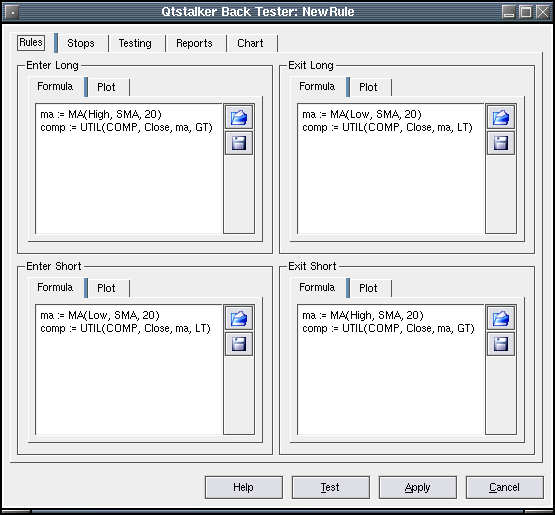
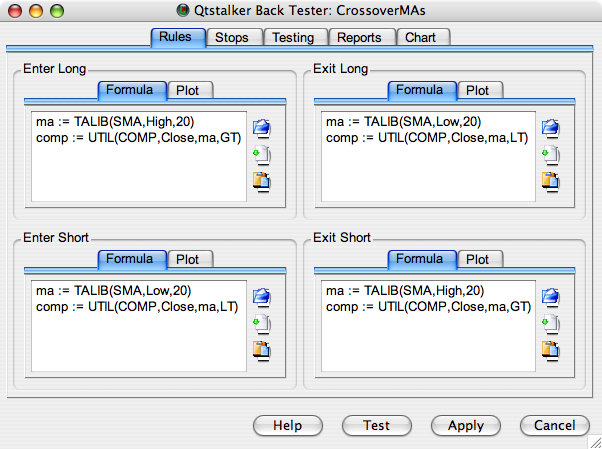
Use example as TALIB(SMA,...) rather than the old MA(...).

diff --git a/docs/backtesterrules.html b/docs/backtesterrules.html
@@ -27,7 +27,7 @@ buy signal.</li>
 </ul>
 <br>
 <img alt="" src="backtesterrules1.png"
- style="width: 555px; height: 515px;">&nbsp;&nbsp; <br>
+ style="width: 602px; height: 449px;">&nbsp;&nbsp; <br>
 <br>
 <p>Here the above shot shows a simple moving average crossover formula
 for each trading rule.<br>
